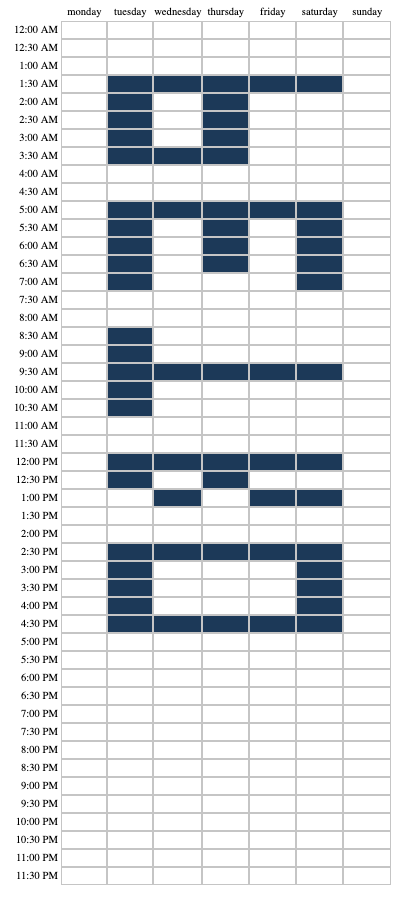
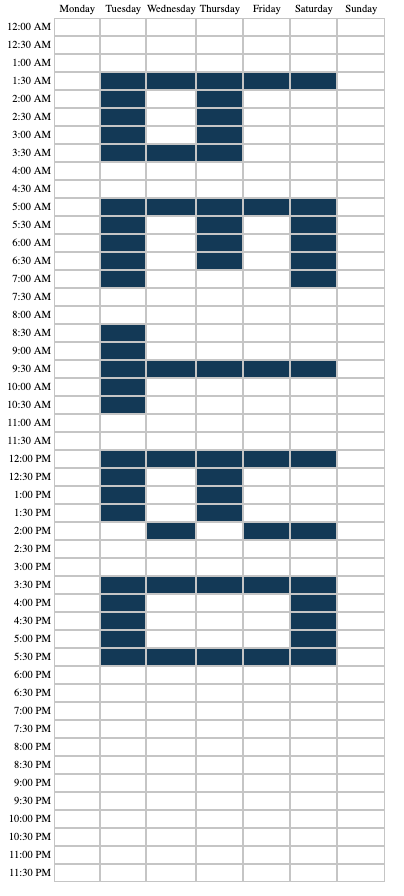
udpated sample pictures

diff --git a/demo/index.html b/demo/index.html
@@ -14,8 +14,8 @@
             onChange: function(selected) {
                 console.log('selected', selected);
             },
-            selected: ["tuesday-1.5", "tuesday-2", "tuesday-2.5", "tuesday-3", "tuesday-3.5", "tuesday-5", "tuesday-5.5", "tuesday-6", "tuesday-6.5", "tuesday-7", "tuesday-8.5", "tuesday-9", "tuesday-9.5", "tuesday-10", "tuesday-10.5", "tuesday-12", "tuesday-12.5", "tuesday-14.5", "tuesday-15", "tuesday-15.5", "tuesday-16", "tuesday-16.5", "wednesday-1.5", "wednesday-3.5", "wednesday-5", "wednesday-9.5", "wednesday-12", "wednesday-13", "wednesday-14.5", "wednesday-16.5", "thursday-1.5", "thursday-2", "thursday-2.5", "thursday-3", "thursday-3.5", "thursday-5", "thursday-5.5", "thursday-6", "thursday-6.5", "thursday-9.5", "thursday-12", "thursday-12.5", "thursday-14.5", "thursday-16.5", "friday-1.5", "friday-5", "friday-9.5", "friday-12", "friday-13", "friday-14.5", "friday-16.5", "saturday-1.5", "saturday-5", "saturday-5.5", "saturday-6", "saturday-6.5", "saturday-7", "saturday-9.5", "saturday-12", "saturday-13", "saturday-14.5", "saturday-15", "saturday-15.5", "saturday-16", "saturday-16.5"],
-            reverse: true,
+            selected: ["tuesday-1.5", "tuesday-2", "tuesday-2.5", "tuesday-3", "tuesday-3.5", "tuesday-5", "tuesday-5.5", "tuesday-6", "tuesday-6.5", "tuesday-7", "tuesday-8.5", "tuesday-9", "tuesday-9.5", "tuesday-10", "tuesday-10.5", "tuesday-12", "tuesday-12.5", "tuesday-13", "tuesday-13.5", "tuesday-15.5", "tuesday-16", "tuesday-16.5", "tuesday-17", "tuesday-17.5", "wednesday-1.5", "wednesday-3.5", "wednesday-5", "wednesday-9.5", "wednesday-12", "wednesday-14", "wednesday-15.5", "wednesday-17.5", "thursday-1.5", "thursday-2", "thursday-2.5", "thursday-3", "thursday-3.5", "thursday-5", "thursday-5.5", "thursday-6", "thursday-6.5", "thursday-9.5", "thursday-12", "thursday-12.5", "thursday-13", "thursday-13.5", "thursday-15.5", "thursday-17.5", "friday-1.5", "friday-5", "friday-9.5", "friday-12", "friday-14", "friday-15.5", "friday-17.5", "saturday-1.5", "saturday-5", "saturday-5.5", "saturday-6", "saturday-6.5", "saturday-7", "saturday-9.5", "saturday-12", "saturday-14", "saturday-15.5", "saturday-16", "saturday-16.5", "saturday-17", "saturday-17.5"],
+            reverse: false,
             twelveOClockLabel: false
         };
     });
